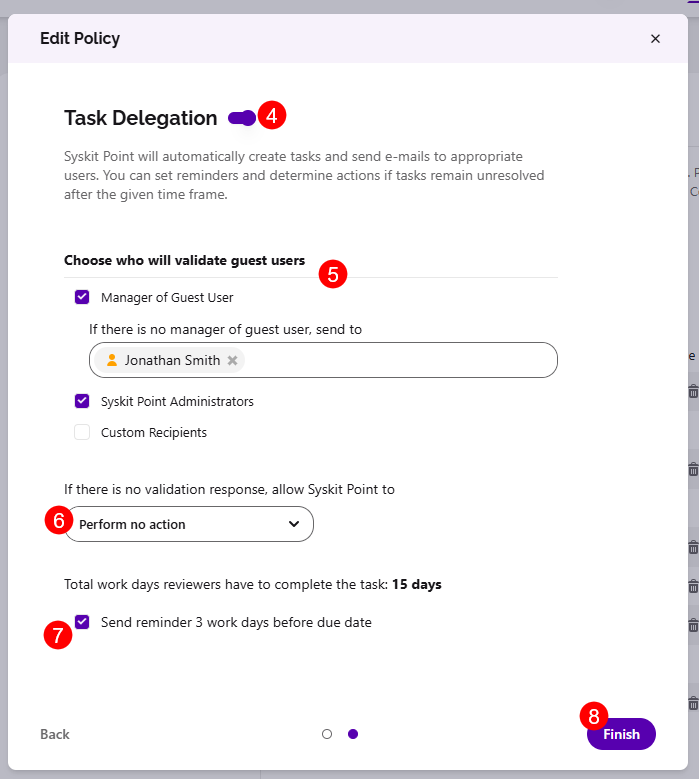
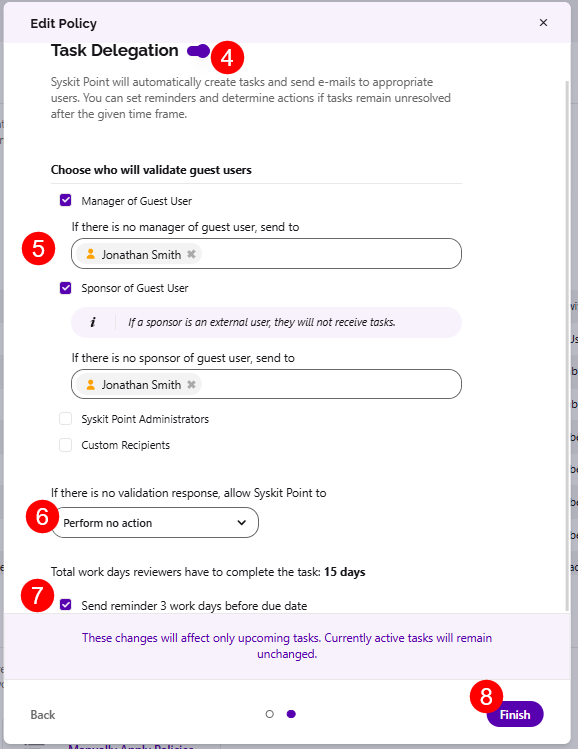
Merge pull request #1244 from SysKitTeam/guestsponsors_policyimpact_articles
policy impact and sponsors

Pull request: policy impact and sponsors

Changed region(s): [[0.0, 0.0, 1.0, 1.0], [0.7785, 0.4606, 0.8097, 0.4913], [0.4983, 0.9212, 0.5294, 0.9519]]

diff --git a/sidebars.ts b/sidebars.ts
@@ -671,6 +671,7 @@ const sidebars: SidebarsConfig = {
             'governance-and-automation/automated-workflows/set-up-policies',
             'governance-and-automation/automated-workflows/policy-automation',
             'governance-and-automation/automated-workflows/manage-policies',  
+            'governance-and-automation/automated-workflows/policy-impact-report',
             'governance-and-automation/automated-workflows/workspace-type-and-reviewers',  
             'governance-and-automation/automated-workflows/blocked-users-with-licenses-admin',
             'governance-and-automation/automated-workflows/inactive-guest-users-admin',

diff --git a/docs/governance-and-automation/automated-workflows/policy-impact-report.md b/docs/governance-and-automation/automated-workflows/policy-impact-report.md
@@ -1,0 +1,108 @@
+---
+description: This article describes the Policy Impact report, which shows the workspaces where a specific policy is applied and the reviewers responsible for them.
+---
+
+# Policy Impact Report
+
+The **Policy Impact** report gives you a quick overview of everything a single policy currently affects in your tenant:
+
+* The workspaces where the policy is applied
+* The reviewers responsible for validating those workspaces, for policies with task delegation enabled
+
+You can use this report to check a policy's reach before making changes or to find workspaces that might not have a reviewer assigned.
+
+## Access the Policy Impact Report
+
+The Policy Impact report can be accessed from two places:
+
+* **From the Policies settings screen**, go to **Settings > Policies** and **click the number in the Applied To column** for a policy.
+* **From the Workspace Review overview**, go to **Govern > Workspace Review** and **click the Workspaces included number** for a Workspace Review policy.
+
+![Policy Impact - Settings > Policies](../../../static/img/policy-impact-settings-policy.png)
+
+![Policy Impact - Govern > Workspace Review](../../../static/img/policy-impact-govern-wr.png)
+
+:::info
+
+**Please note:**  
+
+* The Policy Impact report is not available for **tenant-wide policies**, for example, the default Inactive Guest Users policy. For these policies, the number in the **Applied To** column is not clickable.
+* Clicking the **Applied To** number for an **Access Review policy** opens the existing **Manage Reviewers** screen instead of the Policy Impact report.
+
+:::
+
+If the policy has **no workspaces** despite being applied by using Rules, the report is not shown. Once you click on the **0 workspaces**, a short message is displayed with two options:
+
+* **Apply Automatically with Rules**; opens the **Rules** screen, where you can review or edit rules.
+* **Manually Apply Policies**; opens the **Manage Policies** screen, where you can apply the policy to workspaces yourself.
+
+For more details on both options, [take a look at the Apply Policies article.](manage-policies.md)
+
+## Report Data
+
+The Policy Impact report opens on the **Workspaces** view by default. For policies with task delegation enabled, you can **use the Workspaces/Reviewers toggle** at the top of the report to switch between:
+
+* **Workspaces**; shows every workspace where the policy is currently applied.
+* **Reviewers**; shows every reviewer responsible for validating the workspaces shown in the Workspaces view.
+
+### Workspaces View
+
+You can filter the **Workspace view** by:
+
+* **All**; shows the total number of workspaces where the policy is applied
+* **Workspace type filters** (Microsoft Teams, Microsoft 365 Groups, SharePoint sites, etc.); each tile shows the amount for that type of workspace
+  * **Click a tile** to display only workspaces of that type
+* **Without Reviewers**; marked with a warning icon
+  * **Click this tile** to display only the workspaces that have no active reviewer assigned for this policy
+
+The following information is available on the report:
+
+* **Name** of the workspace
+* **URL** of the workspace
+* **Applied** shows whether the policy was applied to the workspace by a Rule or Manually
+* **Active Reviewers** shows the number of reviewers responsible for validating the workspace
+  * This column is not displayed for policies without task delegation
+* **E-mail** of the workspace
+
+Selecting any workspace provides the action to **Exclude from Policy**. 
+* Completing this action removes the policy from the selected workspaces.
+ * This action is only available when the policy was manually applied to the workspace.
+
+If a workspace has no active reviewers, you can also perform the **Change Owners** or **Change Admins** actions. You can use these actions to assign an owner or admin to the workspace so that the policy has someone to delegate tasks to.
+
+The report can be **exported** as a **PDF**, **XLSX**, or **CSV** file.
+
+### Reviewers View
+
+Each row in the Reviewers view represents a user who is responsible for at least one workspace visible in the Workspaces view.
+
+You can filter the **Reviewers view** by:
+
+* **All**; the total number of reviewers for the policy
+* **Governance Excluded Users**; shown only when the policy has excluded reviewers
+  * Click this tile to display users who are excluded from governance
+  * Excluded users are shown for reference, and no actions can be performed on them from this report
+
+The following information is available on the **Reviewers view**:
+
+* **Name** of the user
+* **E-mail** of the user
+* **Department** the user belongs to
+* **Assigned Workspaces** shows the number of workspaces they are a reviewer for
+
+You can **export the report** as a **PDF**, **XLSX**, or **CSV** file.
+
+:::info
+
+**Please note!**  
+
+For policies **without task delegation**, such as **Access Requests**, reviewers are not tracked. In this case, the **Workspaces/Reviewers** toggle is hidden, and only the Workspaces view is available.
+
+:::
+
+
+## Related Articles
+
+* [Apply Policies](manage-policies.md)
+* [Rules for Applying Policies Automatically](policy-automation.md)
+* [Workspace Review](../workspace-review/README.md)

diff --git a/docs/governance-and-automation/automated-workflows/inactive-guest-users-admin.md b/docs/governance-and-automation/automated-workflows/inactive-guest-users-admin.md
@@ -19,6 +19,8 @@ The **Edit Policy** dialog opens, where you can:
 * **Enable Task Delegation (4)** by clicking the toggle next to it
   * **Select who will validate guest users (5):**
      * **Manager of Guest User**; when the option is selected, **the person responsible for the validation, in case the Guest User does not have a defined manager, needs to be chosen**
+     * **Sponsor of Guest User**; when the option is selected, Syskit Point sends the validation task to the guest user's **sponsor**, or **sponsor group** members, depending on data collected from your Microsoft 365
+       * A fallback recipient must be chosen for guest users without a defined sponsor
      * **Syskit Point Administrators**; this option is selected by default
      * **Custom Recipients**; when selected, use the input field to select custom users who will be responsible for the validation of Guest Users
   * **Select what Syskit Point should do if there is no validation response(6)**:
@@ -38,6 +40,13 @@ Based on your configuration, **Syskit Point will start the task delegation workf
 :::warning
 **Please note!**
 **You should have at least one user in your tenant with the Azure AD Premium P1 license assigned to detect sign-in times for guest users accurately.**
+:::
+
+:::warning
+
+**Sponsors that are external users do not receive tasks.**
+When the **Sponsor of Guest User** option is selected and the sponsor is themselves an external user, Syskit Point skips them when delegating the validation task so that governance actions stay within your organization. Make sure a fallback recipient is selected to cover these cases.
+
 :::
 
 For details on how collaborators can [**resolve Inactive Guest Users tasks**, navigate to the following article](../../point-collaborators/resolve-governance-tasks/guest-users-expiration.md).

diff --git a/docs/reporting/external-sharing-reports.md b/docs/reporting/external-sharing-reports.md
@@ -95,10 +95,11 @@ The default columns displayed in the report are:
     
 * **Name** of the user
 * **Site Name**
-* **Email**
+* **E-mail**
 * **Username**
 * **Domain**
-* **Last Logged In** DateTime
+* **Last Logged In** 
+* **Sponsor**; the internal user or sponsor group synced from Microsoft 365 who is responsible for the guest user's access
     
 There is one additional column available in the column chooser.
   * **Site Type**; shows the type of workspace

diff --git a/docs/releases/cloud/point-2026-07-14-release-note.md b/docs/releases/cloud/point-2026-07-14-release-note.md
@@ -27,6 +27,7 @@ description: This article lists new features, improvements, and bug fixes in the
     * The report shows which workspaces and reviewers are covered by your active policies.
   * On manually applied policies, you can complete the **Exclude from Policy** action which removes the policy from the selected workspace(s).
   * The report supports filtering and PDF or XLSX exports.
+  * [For more details, take a look at the Policy Impact report article.](../../governance-and-automation/automated-workflows/policy-impact-report.md) 
 
 ## Improvements & Bug Fixes
 